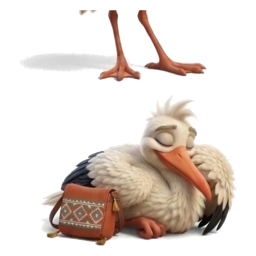
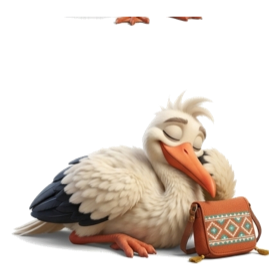
Leyo 2.0: dengeli 6li duygu seti + 4-kare gercek sprite-sheet donguleri (bavul, ucma, merhaba)

diff --git a/index.html b/index.html
@@ -8,8 +8,8 @@
 <link rel="icon" type="image/png" sizes="48x48" href="icons/favicon-48.png">
 <link rel="apple-touch-icon" href="icons/icon-180.png">
 <script src="https://cdn.jsdelivr.net/npm/@supabase/supabase-js@2.45.4/dist/umd/supabase.js"></script>
-<script>window.HEYBE_VER = '20261122220641';</script>
-<script src="heybe-web.js?v=20261122220641"></script>
+<script>window.HEYBE_VER = '20261124211225';</script>
+<script src="heybe-web.js?v=20261124211225"></script>
 </head><body>
 
 <meta name="claude:viewport-fit-sides" content="cover">
@@ -700,7 +700,14 @@ body.ro #view .card :is(input, select):not(#tMe), body.ro .pcard input, body.ro 
 .leyo-anim .leyo-st-ucma{animation:leyoFloat 3.2s ease-in-out infinite}
 .leyo-anim .leyo-st-uyku{animation:leyoSleep 4.6s ease-in-out infinite}
 .leyo-anim .leyo-st-foto{animation:leyoFlash 4.2s ease-in-out infinite}
-@media (prefers-reduced-motion:reduce){.leyo-anim .leyo-img{animation:none!important}}
+/* 🎬 4-kare gerçek sprite-sheet oynatıcı (bavul yürüyüş, ucma kanat çırpma, merhaba el sallama + göz kırpma) */
+.leyo-spr{display:block;width:100%;aspect-ratio:1;overflow:hidden;position:relative;z-index:1}
+.leyo-spr img{display:block;width:400%;max-width:none;height:100%;object-fit:fill;filter:drop-shadow(0 3px 6px rgba(20,36,45,.08));will-change:transform}
+@keyframes leyoSpr4{from{transform:translateX(0)}to{transform:translateX(-100%)}}
+.leyo-anim .leyo-spr-bavul img{animation:leyoSpr4 .84s steps(4) infinite}
+.leyo-anim .leyo-spr-ucma img{animation:leyoSpr4 .68s steps(4) infinite}
+.leyo-anim .leyo-spr-merhaba img{animation:leyoSpr4 1.3s steps(4) infinite}
+@media (prefers-reduced-motion:reduce){.leyo-anim .leyo-img,.leyo-anim .leyo-spr img{animation:none!important}}
 .leyo-row{display:flex;align-items:center;gap:10px;margin:4px 0}
 .leyo-row>span:last-child,.leyo-row>p{font-size:.86rem;color:var(--muted);margin:0}
 .leyo-empty{display:flex;flex-direction:column;align-items:center;gap:8px;text-align:center}
@@ -5885,9 +5892,13 @@ function leyoReact(el, customMsg){
   el.appendChild(tip);
   clearTimeout(el.__tt); el.__tt = setTimeout(() => tip.remove(), 2300);
 }
+const LEYO_SPR = {bavul:'bavul-anim', ucma:'ucma-anim', merhaba:'merhaba-anim'};
 function leyo(state, size, label){
   const on = leyoAnimOn(), st = LEYO_IMG[state] ? state : 'bekleme', cls = `leyo leyo-${size || 'm'}${on ? ' leyo-anim' : ''}`;
   if (IN_WEB){
+    if (on && LEYO_SPR[st]){
+      return `<span class="${cls}" data-leyo="${st}"${label ? ` role="img" aria-label="${esc(label)}"` : ' aria-hidden="true"'}><span class="leyo-spr leyo-spr-${st}"><img src="icons/leyo/${LEYO_SPR[st]}.png" alt="${label ? esc(label) : ''}" loading="lazy" decoding="async" onerror="this.parentElement.outerHTML=leyoSvg('${st}',${!on})"></span></span>`;
+    }
     const img = LEYO_IMG[st];
     return `<span class="${cls}" data-leyo="${st}"${label ? ` role="img" aria-label="${esc(label)}"` : ' aria-hidden="true"'}><img class="leyo-img leyo-st-${st}" src="icons/leyo/${img}.png" alt="${label ? esc(label) : ''}" loading="lazy" decoding="async" onerror="this.outerHTML=leyoSvg('${st}',${!on})"></span>`;
   }

diff --git a/sw.js b/sw.js
@@ -1,7 +1,7 @@
 // Heybe service worker: uygulama kabuğu önbellekte; sayfa önce ağdan gelir (güncelleme hemen görünür),
 // internet yoksa önbellekteki sürüm açılır. Supabase istekleri önbelleğe alınmaz.
-const CACHE = 'heybe-20261122220641';
-const SHELL = ['./', './index.html', './manifest.webmanifest', './icons/icon-192.png', './icons/icon-512.png', './icons/leyo/merhaba.png', './icons/leyo/harita.png', './icons/leyo/sevinc.png', './icons/leyo/dusunme.png', './icons/leyo/uyku.png', './icons/leyo/fis.png'];
+const CACHE = 'heybe-20261124211225';
+const SHELL = ['./', './index.html', './manifest.webmanifest', './icons/icon-192.png', './icons/icon-512.png', './icons/leyo/merhaba.png', './icons/leyo/merhaba-anim.png', './icons/leyo/bavul-anim.png', './icons/leyo/ucma-anim.png', './icons/leyo/harita.png', './icons/leyo/sevinc.png', './icons/leyo/dusunme.png', './icons/leyo/uyku.png', './icons/leyo/fis.png'];
 self.addEventListener('install', e => { e.waitUntil(caches.open(CACHE).then(c => c.addAll(SHELL)).then(() => self.skipWaiting())); });
 self.addEventListener('activate', e => { e.waitUntil(caches.keys().then(ks => Promise.all(ks.filter(k => k !== CACHE).map(k => caches.delete(k)))).then(() => self.clients.claim())); });
 self.addEventListener('fetch', e => {
